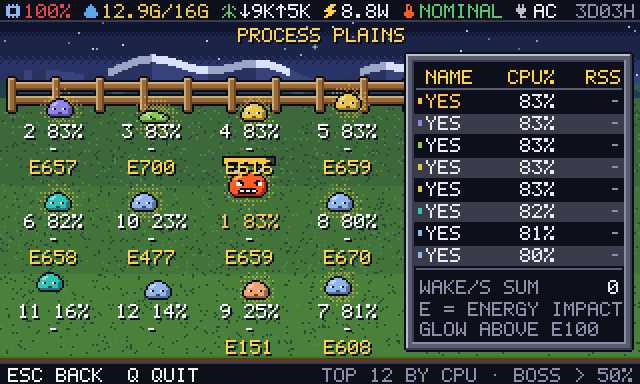
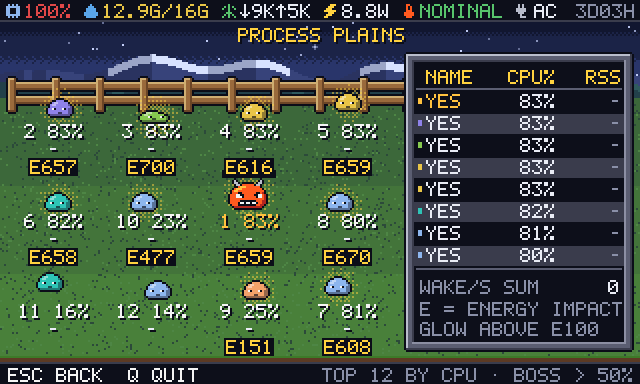
Keep Process Plains labels clear of the boss bar
The boss sprite, scaled for RSS and hopping 8 px, pushed its health bar
into the energy label of the slot above. The boss now keeps a fixed size
(its RSS stays in the label and board), hops 2 px, and labels draw in a
second pass with a dark backing on the energy line.

diff --git a/src/hires/zones/process.ts b/src/hires/zones/process.ts
@@ -2,7 +2,7 @@
  * Process Plains (DESIGN.md §7.3). Top twelve by CPU stay in PID-keyed meadow
  * slots. RSS (<100 MB, <1 GB, or larger) scales the slime, CPU drives its hops,
  * and energy impact >100 lights a gold halo. The #1 process above 50% becomes a
- * boss. Its bar fills over 0–100% of one core and its label gives the full CPU
+ * boss (fixed size; its RSS stays in the labels). Its bar fills over 0–100% of one core and its label gives the full CPU
  * percentage. The board lists eight processes and sums wakeups per second
  * across the twelve displayed processes.
  */
@@ -17,31 +17,44 @@ import { BOSS, SLIMES, SLIME_BASES, W, X, drawHintHi, drawHudHi, drawMountains, 
 export const PROCESS_LIMIT_HI = 12;
 const SHADOW = { shadow: X.outline };
 
-function drawSlimeHi(cv: PixelCanvas, slime: Slime, departing: boolean): void {
-  const { proc, slot, paletteSeed, boss, presence } = slime;
+function slimePos(slime: Slime): { cx: number; foot: number } {
+  return { cx: 26 + (slime.slot % 4) * 49, foot: 61 + Math.floor(slime.slot / 4) * 45 };
+}
+
+/**
+ * Pass 1: sprite, halo and boss bar. The boss keeps a fixed size and a short
+ * hop so it and its bar stay within the 18 px gap below the label stack of
+ * the slot above (rows are 45 px apart, labels take up to 27 px).
+ */
+function drawSlimeHi(cv: PixelCanvas, slime: Slime): void {
+  const { paletteSeed, boss, presence } = slime;
   if (presence === 0) return;
-  const cx = 26 + (slot % 4) * 49;
-  const foot = 61 + Math.floor(slot / 4) * 45;
+  const { cx, foot } = slimePos(slime);
   const hop = slimeHop(slime);
   const x = cx + Math.round(4 * Math.sin(slime.phase * 2 * Math.PI));
   const [normal, squash] = SLIMES[Math.floor(paletteSeed * SLIMES.length)]!;
   const art = boss ? BOSS : hop < 0.08 ? squash : normal;
-  const scale = slime.size * presence;
+  const scale = (boss ? 1 : slime.size) * presence;
   const w = Math.max(1, Math.round(art.w * scale));
   const h = Math.max(1, Math.round(art.h * scale));
-  const y = foot - h - Math.round(hop * (boss ? 8 : 6));
+  const y = foot - h - Math.round(hop * (boss ? 2 : 6));
   if (slime.glow > 0.05) glow(cv, x, y + Math.floor(h / 2), Math.ceil(w / 2) + 5, P.accent, slime.glow * presence);
   outlined(cv, X.outline, (layer) => blitScaledSlime(layer, art, x - Math.floor(w / 2), y, w, h));
-  if (departing) return;
-
   if (boss) {
-    cv.rect(x - 13, y - 6, 27, 5, X.outline);
-    cv.rect(x - 12, y - 5, 25, 3, P.stoneDeep);
-    cv.rect(x - 12, y - 5, Math.round(25 * Math.min(1, slime.cpu / 100)), 3, P.lavaHi);
+    cv.rect(x - 13, y - 5, 27, 4, X.outline);
+    cv.rect(x - 12, y - 4, 25, 2, P.stoneDeep);
+    cv.rect(x - 12, y - 4, Math.round(25 * Math.min(1, slime.cpu / 100)), 2, P.lavaHi);
   }
+}
+
+/** Pass 2: labels, drawn after every sprite so no sprite or bar covers them. */
+function drawSlimeLabelsHi(cv: PixelCanvas, slime: Slime): void {
+  const { proc, boss } = slime;
+  if (slime.presence === 0) return;
+  const { cx, foot } = slimePos(slime);
   drawTextCentered(cv, cx, foot + 1, `${slime.rank} ${fmtPct(proc.cpuPct)}`, boss ? P.lavaHi : P.white, SHADOW);
   drawTextCentered(cv, cx, foot + 10, proc.rssB === undefined ? "-" : fmtBytes(proc.rssB), P.hudFg, SHADOW);
-  if (slime.glow > 0.05) drawTextCentered(cv, cx, foot + 19, `E${Math.round(proc.energyImpact)}`, P.accent, SHADOW);
+  if (slime.glow > 0.05) drawTextCentered(cv, cx, foot + 19, `E${Math.round(proc.energyImpact)}`, P.accent, { bg: X.outline });
 }
 
 function drawBoardHi(cv: PixelCanvas, ranked: Slime[]): void {
@@ -89,8 +102,9 @@ function drawMeadowHi(cv: PixelCanvas, t: number): void {
 export function drawProcessZoneHi(cv: PixelCanvas, ctx: DrawCtx, field: ProcessField): void {
   drawMeadowHi(cv, ctx.t);
   const { ranked, leaving } = field.update(ctx.snap.procs, ctx.dt);
-  for (const slime of leaving) drawSlimeHi(cv, slime, true);
-  for (const slime of ranked) drawSlimeHi(cv, slime, false);
+  for (const slime of leaving) drawSlimeHi(cv, slime);
+  for (const slime of ranked) drawSlimeHi(cv, slime);
+  for (const slime of ranked) drawSlimeLabelsHi(cv, slime);
   drawBoardHi(cv, ranked);
   drawTextCentered(cv, W / 2, 14, "PROCESS PLAINS", P.accent, SHADOW);
   drawHudHi(cv, ctx.snap);
